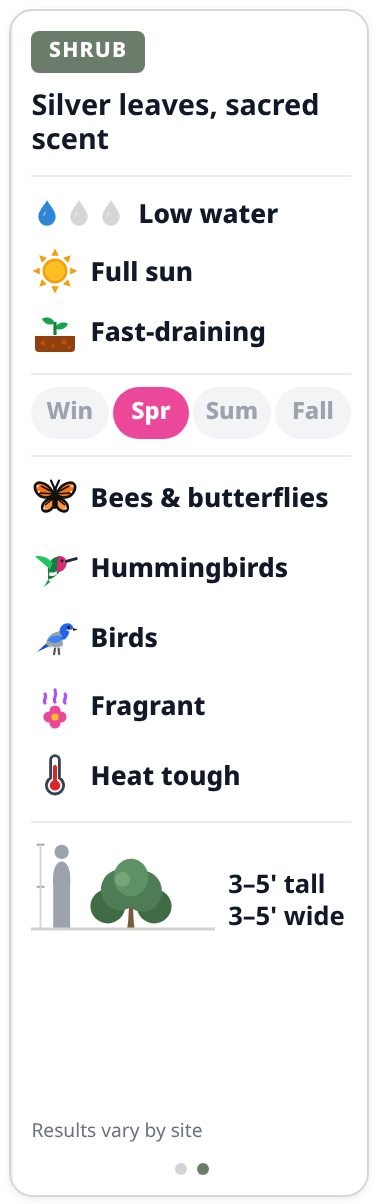
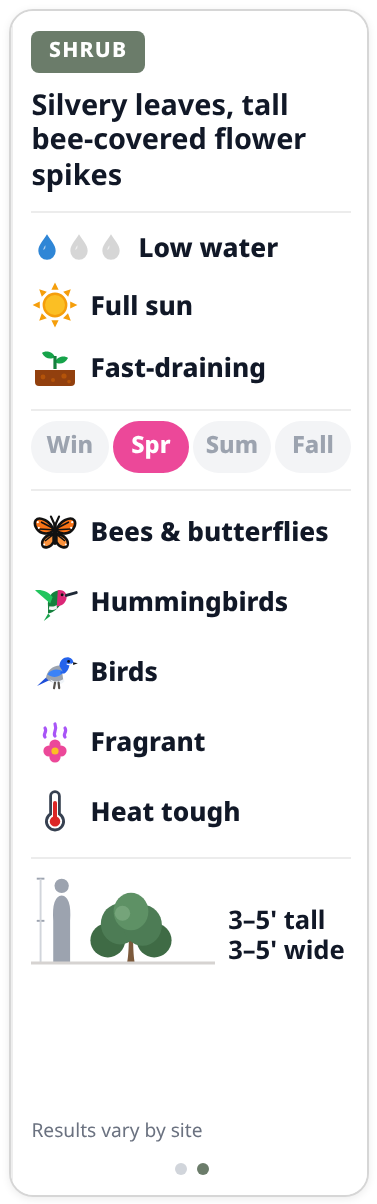
Plant basics: neutral horticultural taglines (no sacred/ceremonial wording)

Changed region(s): [[0.0875, 0.0615, 0.9045, 0.799], [0.7586, 0.7068, 0.9045, 0.799], [0.6127, 0.7068, 0.7294, 0.799]]

diff --git a/data/plant-basics.js b/data/plant-basics.js
@@ -34,7 +34,7 @@ var IENN_BASICS = {
   Achillea: { water:2, sun:["full","part"], soil:"Adaptable", bloom:["Sp","Su"], wild:["pollinators","fragrant","containers"], h:[1,3], w:[1,3], ie:true,
     desc:"Feathery, aromatic leaves with flat clusters of small flowers. Spreads into a soft patch and can even be mowed as a lawn alternative." },
   Datura: { water:1, sun:["full"], soil:"Adaptable", bloom:["Su","F"], wild:["pollinators","fragrant"], h:[2,4], w:[3,6], ie:true,
-    desc:"Large white trumpet flowers open in the evening for night-flying moths. All parts are toxic, so plant it away from kids and pets." },
+    desc:"Large white trumpet flowers open in the evening for night-flying moths. All parts are toxic if eaten, so plant it away from kids and pets." },
   Artemisia: { water:1, sun:["full"], soil:"Fast-draining", bloom:["F"], wild:["birds","fragrant"], h:[3,5], w:[3,5], ie:true,
     desc:"Soft, silvery-gray foliage with the classic scent of the coastal sage scrub. Excellent cover for small birds." },
   Trichostema: { water:1, sun:["full"], soil:"Fast-draining", bloom:["Sp","Su"], wild:["pollinators","hummingbirds","fragrant"], h:[3,5], w:[3,5], ie:true,
@@ -70,10 +70,10 @@ var IENN_BASICS_SPECIES = {
 var IENN_FORM = { Salvia:["Shrub","Fragrant bee magnet"], Eriogonum:["Shrub","Tough, long-blooming bee favorite"], Hesperoyucca:["Succulent","One spectacular bloom spike"], Baileya:["Wildflower","Silver leaves, sunny daisies"],
   Calystegia:["Vine","Big white trumpets, fast climber"], Encelia:["Shrub","Fast, cheerful yellow daisies"], Eschscholzia:["Wildflower","Golden state flower"], Muhlenbergia:["Grass","Fountain of fine flower spikes"],
   Romneya:["Perennial","Giant fried-egg flowers"], Asclepias:["Perennial","Monarch caterpillar host"], Diplacus:["Sub-shrub","Hummingbird spring show"], Penstemon:["Perennial","Hummingbird flower spikes"],
-  Rhus:["Shrub","Glossy evergreen hedge"], Achillea:["Perennial","Lacy, tough lawn alternative"], Datura:["Perennial","Moonlit trumpets (toxic)"], Artemisia:["Shrub","Silver scent of the hills"],
+  Rhus:["Shrub","Glossy evergreen hedge"], Achillea:["Perennial","Lacy, tough lawn alternative"], Datura:["Perennial","Big white evening trumpets; toxic if eaten"], Artemisia:["Shrub","Silver scent of the hills"],
   Trichostema:["Sub-shrub","Woolly purple, wildly fragrant"], Baccharis:["Shrub","Tough evergreen cover"], Epilobium:["Perennial","Fall feast for hummingbirds"], Hesperocyparis:["Tree","Blue evergreen spire"],
   Dendromecon:["Shrub","Golden chaparral poppies"], Heteromeles:["Small tree","Red winter berries for birds"] };
-var IENN_FORM_SPECIES = { "Salvia apiana":[null,"Silver leaves, sacred scent"], "Salvia spathacea":["Perennial","Shade-loving hummingbird sage"], "Salvia mellifera":[null,"Honeybee favorite"],
+var IENN_FORM_SPECIES = { "Salvia apiana":[null,"Silvery leaves, tall bee-covered flower spikes"], "Salvia spathacea":["Perennial","Shade-loving hummingbird sage"], "Salvia mellifera":[null,"Honeybee favorite"],
   "Encelia farinosa":[null,"Silver desert sunshine"], "Eriogonum fasciculatum":[null,"Tough, long-blooming bee favorite"], "Baccharis pilularis":["Shrub","Tough evergreen groundcover"] };
 /* Look up basics for a botanical name, e.g. "Salvia apiana". Returns null if the genus is unknown. */
 function iennBasics(botanical) {
